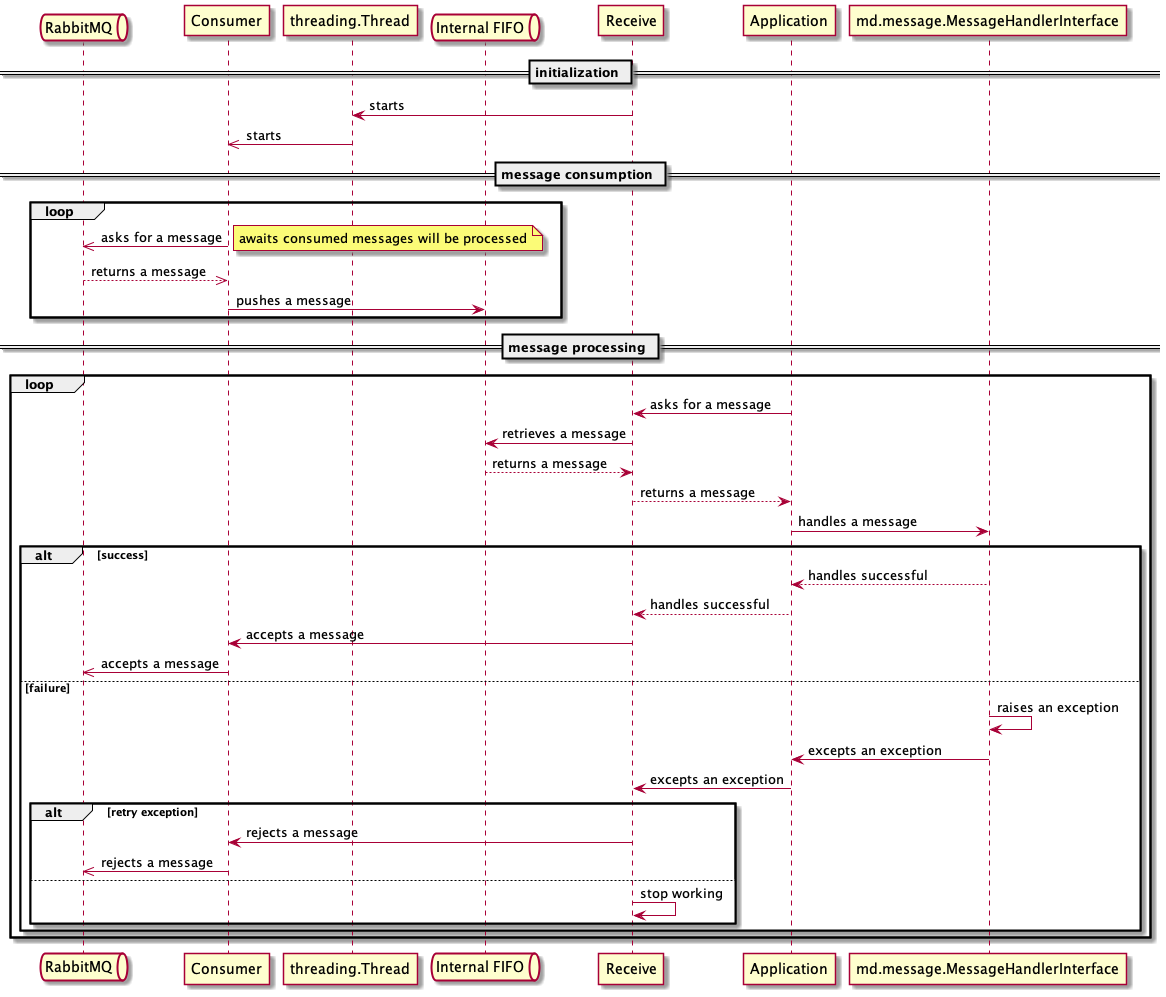
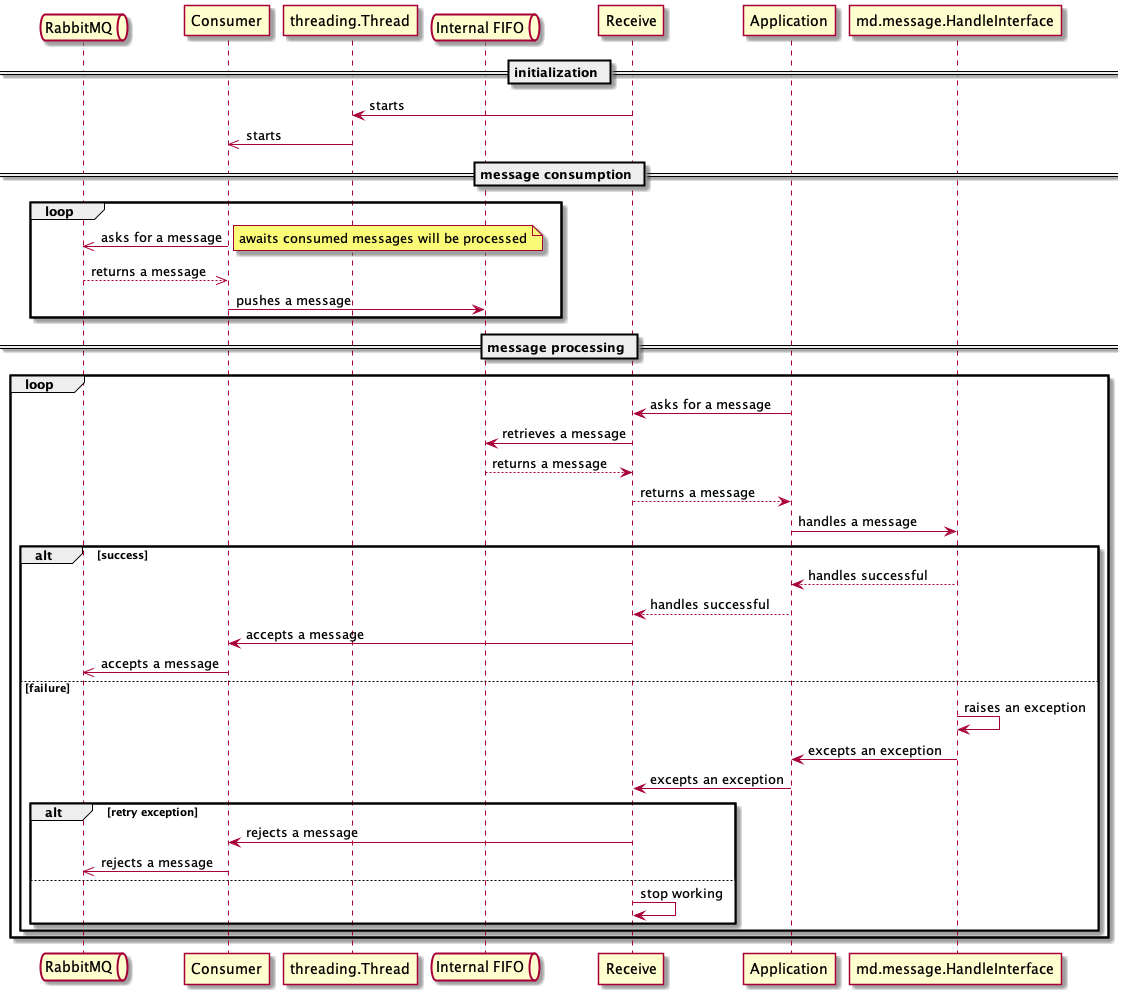
fix: documentation diagrams enhancement (fix typos, remove unnecessary symbols)

diff --git a/changelog.md b/changelog.md
@@ -15,6 +15,7 @@ and this project adheres to [Semantic Versioning](https://semver.org/spec/v2.0.0
 #### Documentation
 
 - usage example in documentation fixed according to the latest changes 
+- typos in diagrams fixed
 
 ## [0.3.0] - 2022-11-01
 
